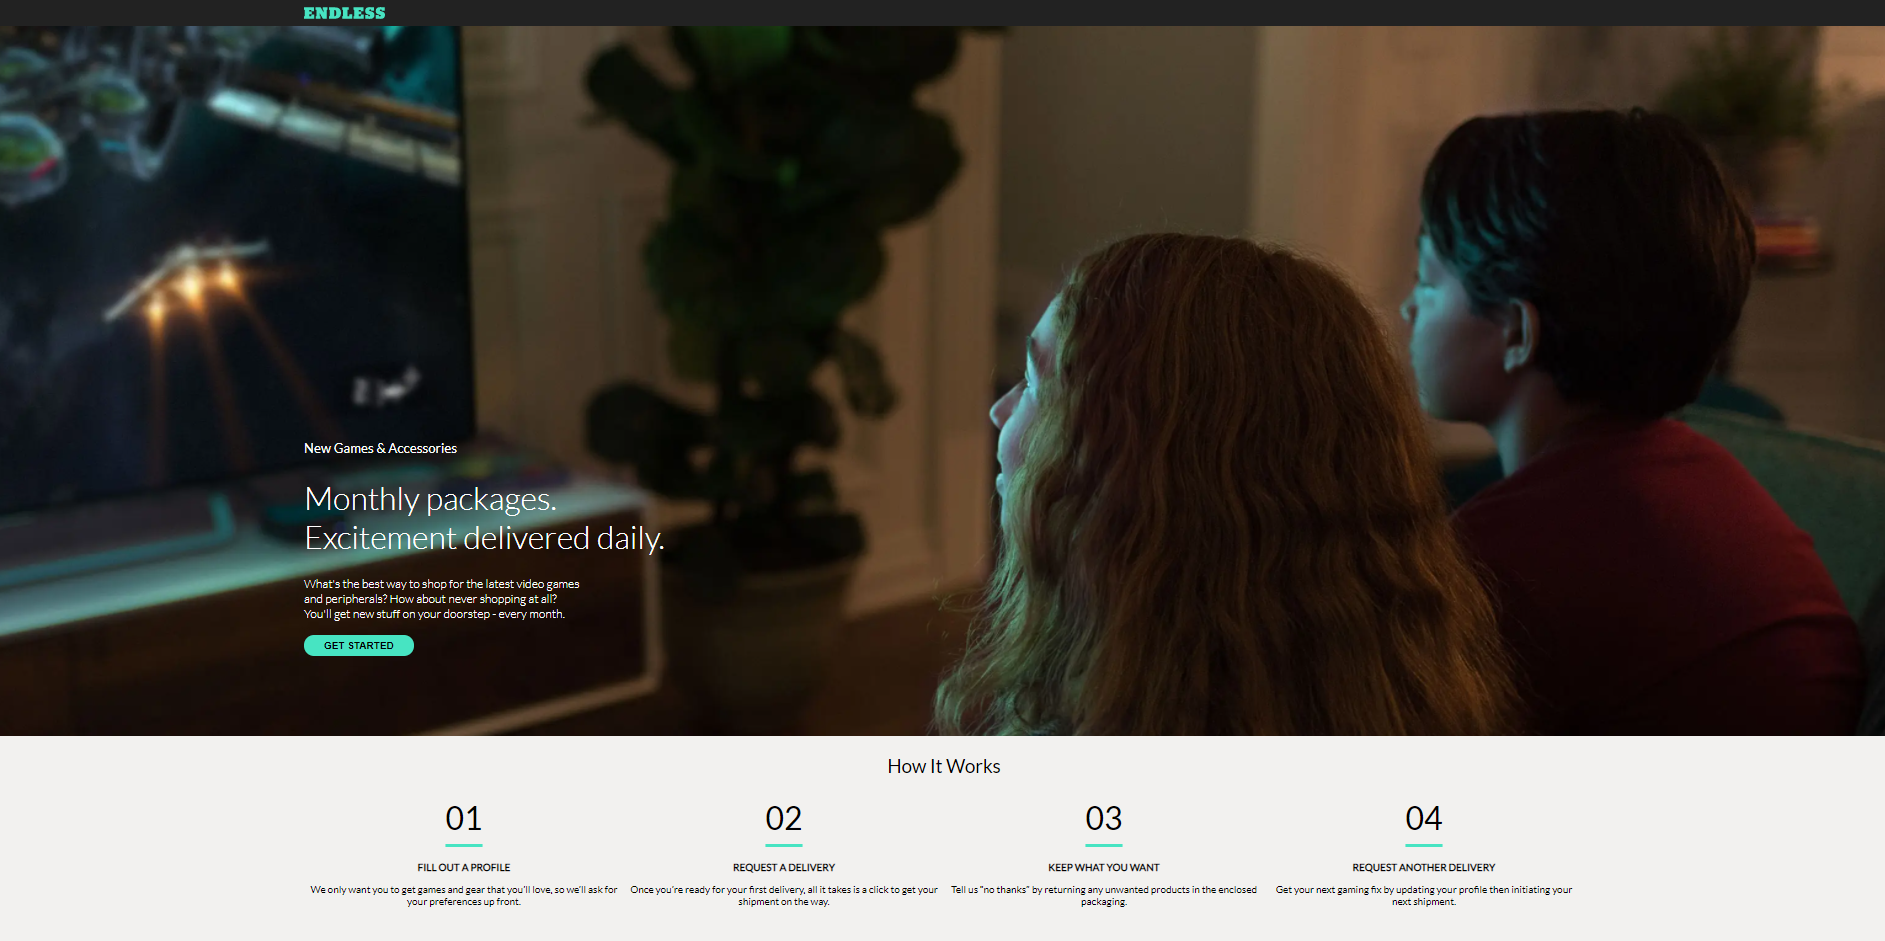
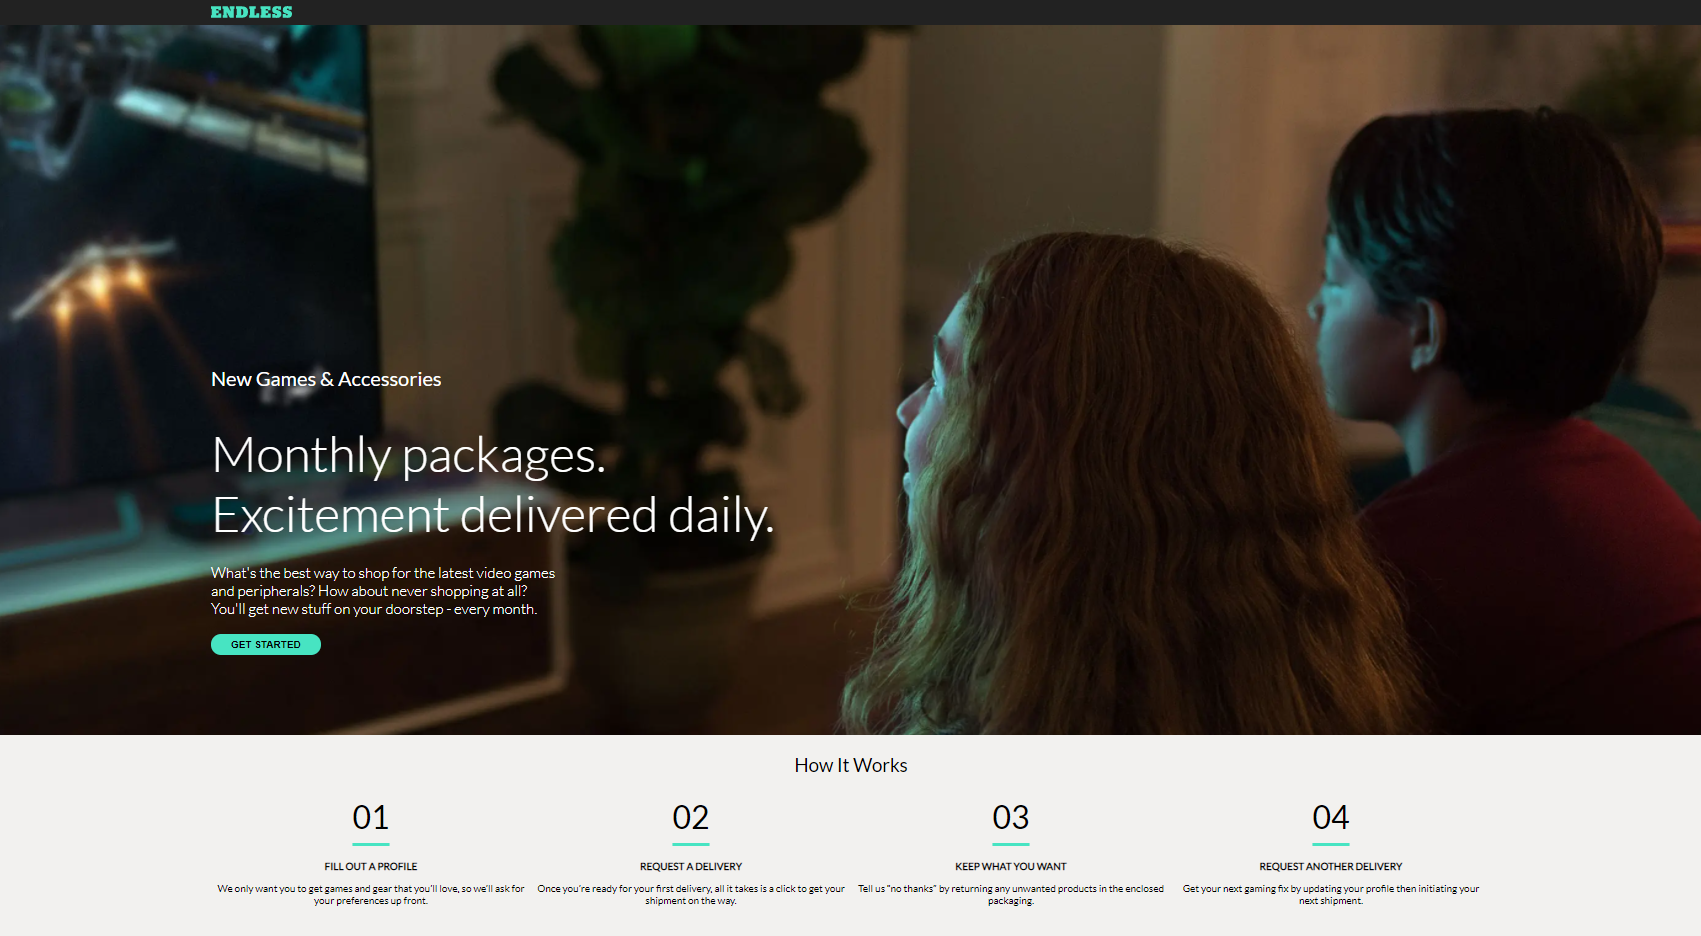
updated Readme, added some small notes in the code

diff --git a/pages/index.js b/pages/index.js
@@ -4,6 +4,7 @@ import Image from "next/image";
 import styles from "../styles/Home.module.css";
 import Steps from "../components/steps";
 
+// getStaticProps is a function that is native to Nextjs, it tells NextJS to pre-render this page at build time, using data returned by the function
 export async function getStaticProps() {
 	const url =
 		"https://uqnzta2geb.execute-api.us-east-1.amazonaws.com/default/FrontEndCodeChallenge";
@@ -16,7 +17,7 @@ export async function getStaticProps() {
 }
 
 export default function Home({ stepsData }) {
-	let sortedStepsData = stepsData.sort(function (a, b) {
+	const sortedStepsData = stepsData.sort(function (a, b) {
 		return a.stepNumber - b.stepNumber;
 	});
 	return (

diff --git a/styles/Home.module.css b/styles/Home.module.css
@@ -132,6 +132,23 @@
 		height: 75vh;
 		overflow-y: hidden;
 	}
+
+	.textOver h5 {
+		font-size: 20px;
+	}
+	
+	.textOver h1 {
+		font-size: 50px;
+	}
+	
+	.textOver p {
+		font-size: 15px;
+		max-width: 350px;
+
+	}
+	
+
+	
 }
 
 @media only screen and (max-width: 740px) {

diff --git a/components/steps.js b/components/steps.js
@@ -1,6 +1,7 @@
 import React from "react";
 import styles from "../styles/Home.module.css";
 
+// I map over the sorted array and extract the necessary data as it is being returned
 const Steps = (props) => {
 	const { steps } = props;
 	return steps.map((step, index) => {

diff --git a/README.md b/README.md
@@ -18,7 +18,21 @@
 
 ## **Description**
 
-Need copy for this section.
+Greetings! Thank you for taking the time to look over my technical exercise submission. I am excited to review this and get your feedback, suggestions, and constructive criticism! I believe it is one of the best ways to learn and improve.
+
+For this comp, after reviewing the React Docs, I decided to use Next.js as my starter toolchain. I could have used `create react app`, but since the content was relatively static, I felt that `Next.js` was a better fit and would be more performant.
+
+I matched the appearance of the comp, as closely as possible. I also made considerations for responsiveness. You can take a look at the [Screenshots](#Screenshots) to see some of my results. The "hero" image was compressed really well. It was coming in at only 597kb. Next.js has some built-in image optimization as well. It will automatically lazy load images and render them in a way that helps avoid cumulative layout shift, amongst other optimizations and considerations.
+
+The "GET STARTED" button has a color change transition for it's hover and active states.
+
+The steps are sorted in numerical order. Then, the sorted array is passed to the `Steps` component, where I map over it, sort the nested `versionContent` arrays, and display the data associated with the most current `effectiveDate`.
+
+I included a Jest `snapshot` test for the `Steps` component. The instructions for the test are located here: [Test](#Test).
+
+Again, thank you so much for taking the time to look over my work. If you have any questions, do not hesitate to contact me! Take care!
+
+
 
 ---
 
